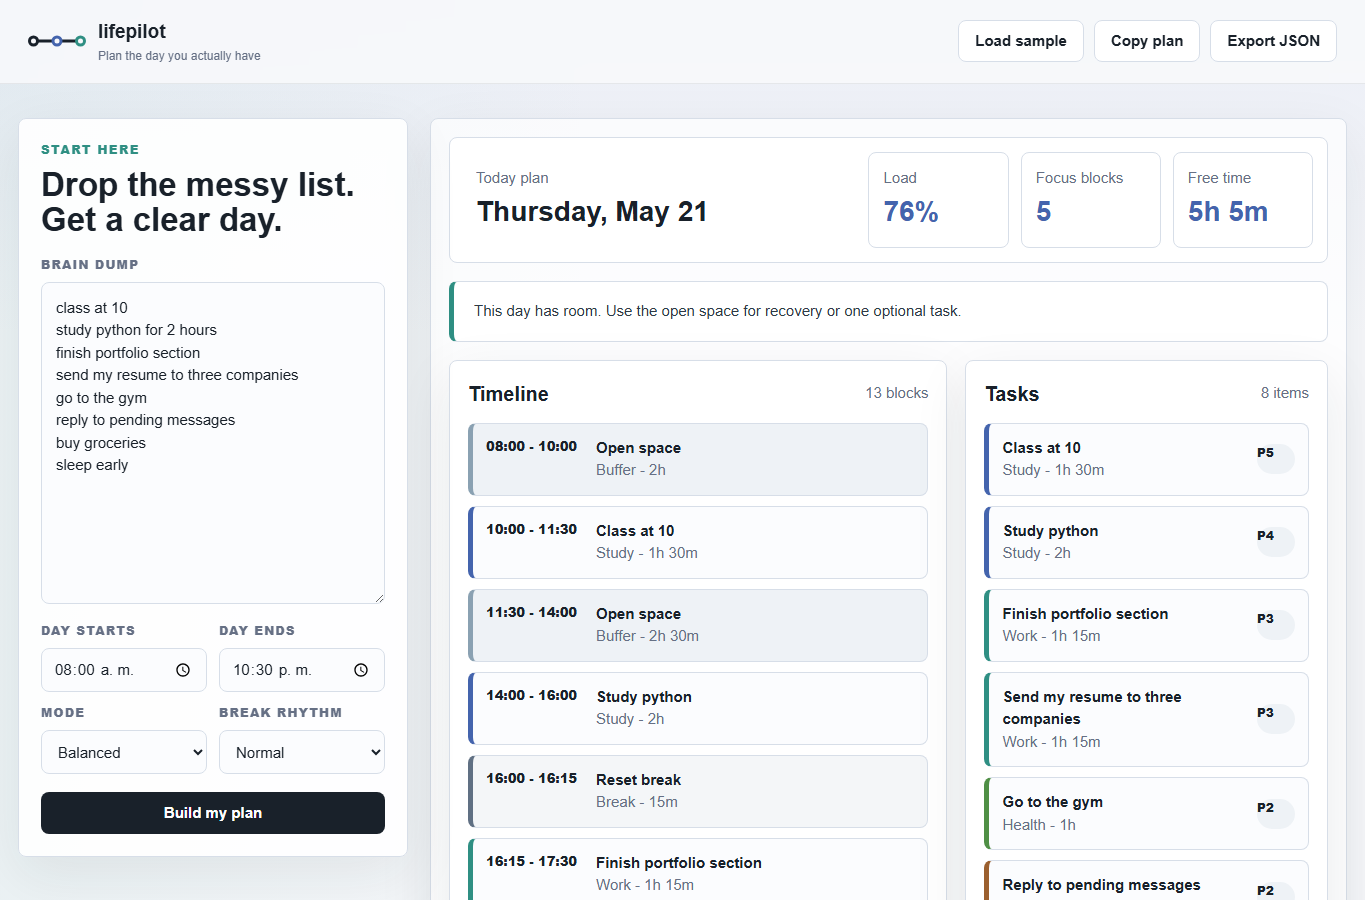
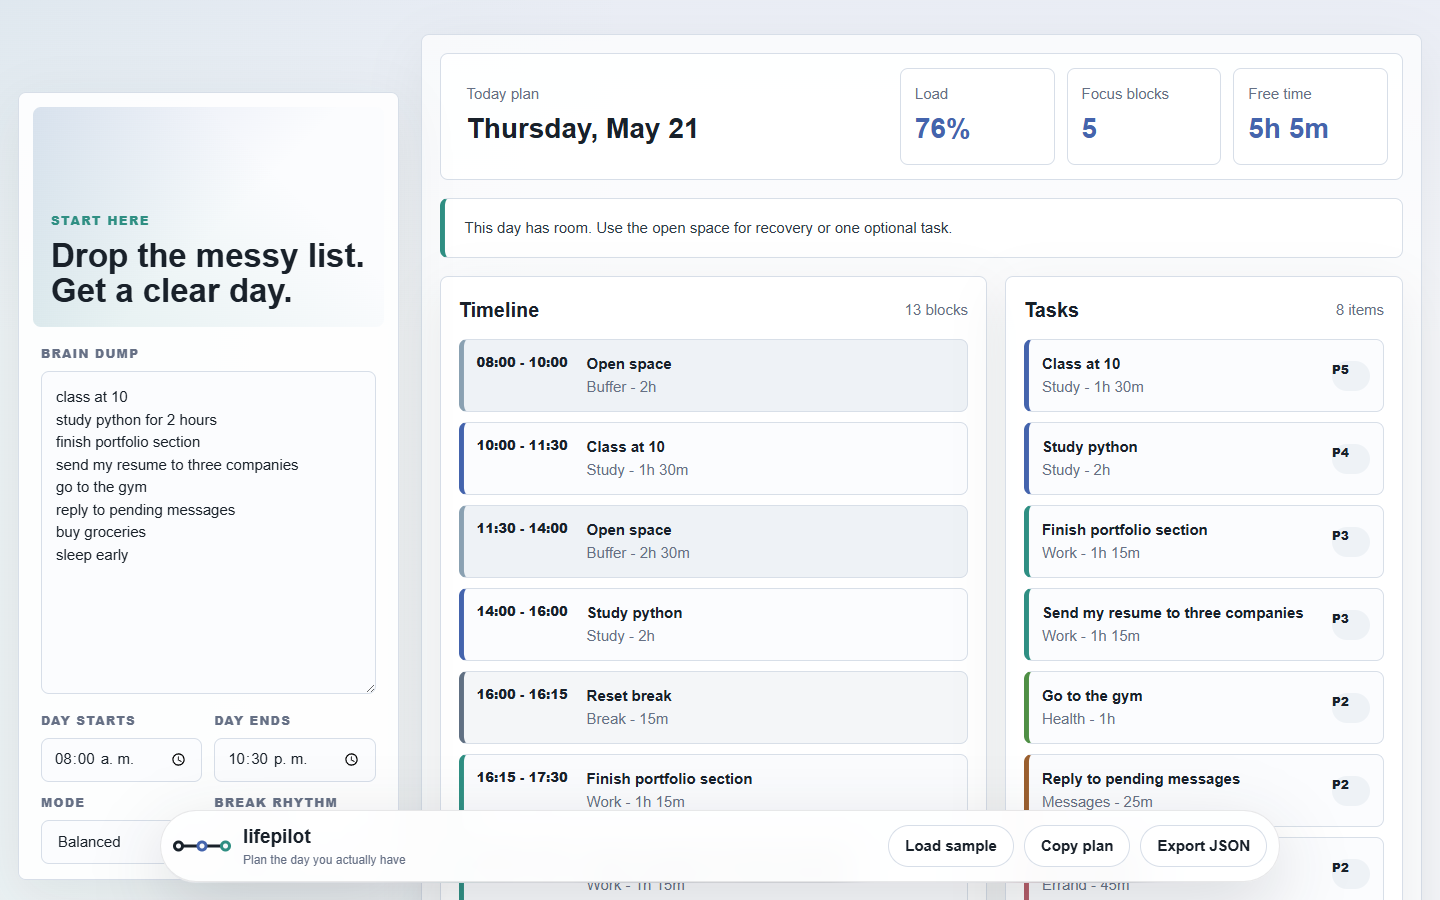
design: move planner actions into floating dock

diff --git a/src/styles.css b/src/styles.css
@@ -50,17 +50,22 @@ button {
 }
 
 .topbar {
-  position: sticky;
-  top: 0;
+  position: fixed;
+  left: 50%;
+  bottom: 18px;
+  transform: translateX(-50%);
   z-index: 10;
   display: flex;
   align-items: center;
   justify-content: space-between;
   gap: 20px;
-  padding: 18px 28px;
-  border-bottom: 1px solid rgba(25, 33, 42, 0.08);
-  background: rgba(247, 248, 251, 0.9);
-  backdrop-filter: blur(16px);
+  width: min(1120px, calc(100% - 28px));
+  padding: 12px;
+  border: 1px solid rgba(25, 33, 42, 0.1);
+  border-radius: 999px;
+  background: rgba(255, 255, 255, 0.88);
+  backdrop-filter: blur(18px);
+  box-shadow: 0 22px 70px rgba(25, 33, 42, 0.16);
 }
 
 .brand {
@@ -139,7 +144,7 @@ button {
 .top-actions button,
 .primary {
   min-height: 42px;
-  border-radius: var(--radius);
+  border-radius: 999px;
   padding: 0 16px;
   color: var(--ink);
   font-weight: 700;
@@ -167,12 +172,12 @@ button {
 .shell {
   width: min(1440px, calc(100% - 36px));
   margin: 0 auto;
-  padding: 34px 0 70px;
+  padding: 34px 0 118px;
 }
 
 .planner {
   display: grid;
-  grid-template-columns: 390px minmax(0, 1fr);
+  grid-template-columns: minmax(330px, 0.38fr) minmax(0, 1fr);
   gap: 22px;
   align-items: start;
 }
@@ -224,6 +229,19 @@ button {
   font-size: 33px;
   line-height: 1.08;
   overflow-wrap: anywhere;
+}
+
+.panel-title {
+  min-height: 220px;
+  display: grid;
+  align-content: end;
+  padding: 18px;
+  margin: -8px -8px 0;
+  border-radius: var(--radius);
+  background:
+    linear-gradient(135deg, rgba(68, 100, 173, 0.14), transparent 54%),
+    linear-gradient(45deg, rgba(47, 143, 131, 0.12), transparent 70%),
+    #fbfcfe;
 }
 
 .field {
@@ -459,6 +477,11 @@ select:focus {
 
 @media (max-width: 680px) {
   .topbar {
+    position: static;
+    transform: none;
+    width: auto;
+    margin: 12px;
+    border-radius: var(--radius);
     align-items: stretch;
     flex-direction: column;
     padding: 16px;
